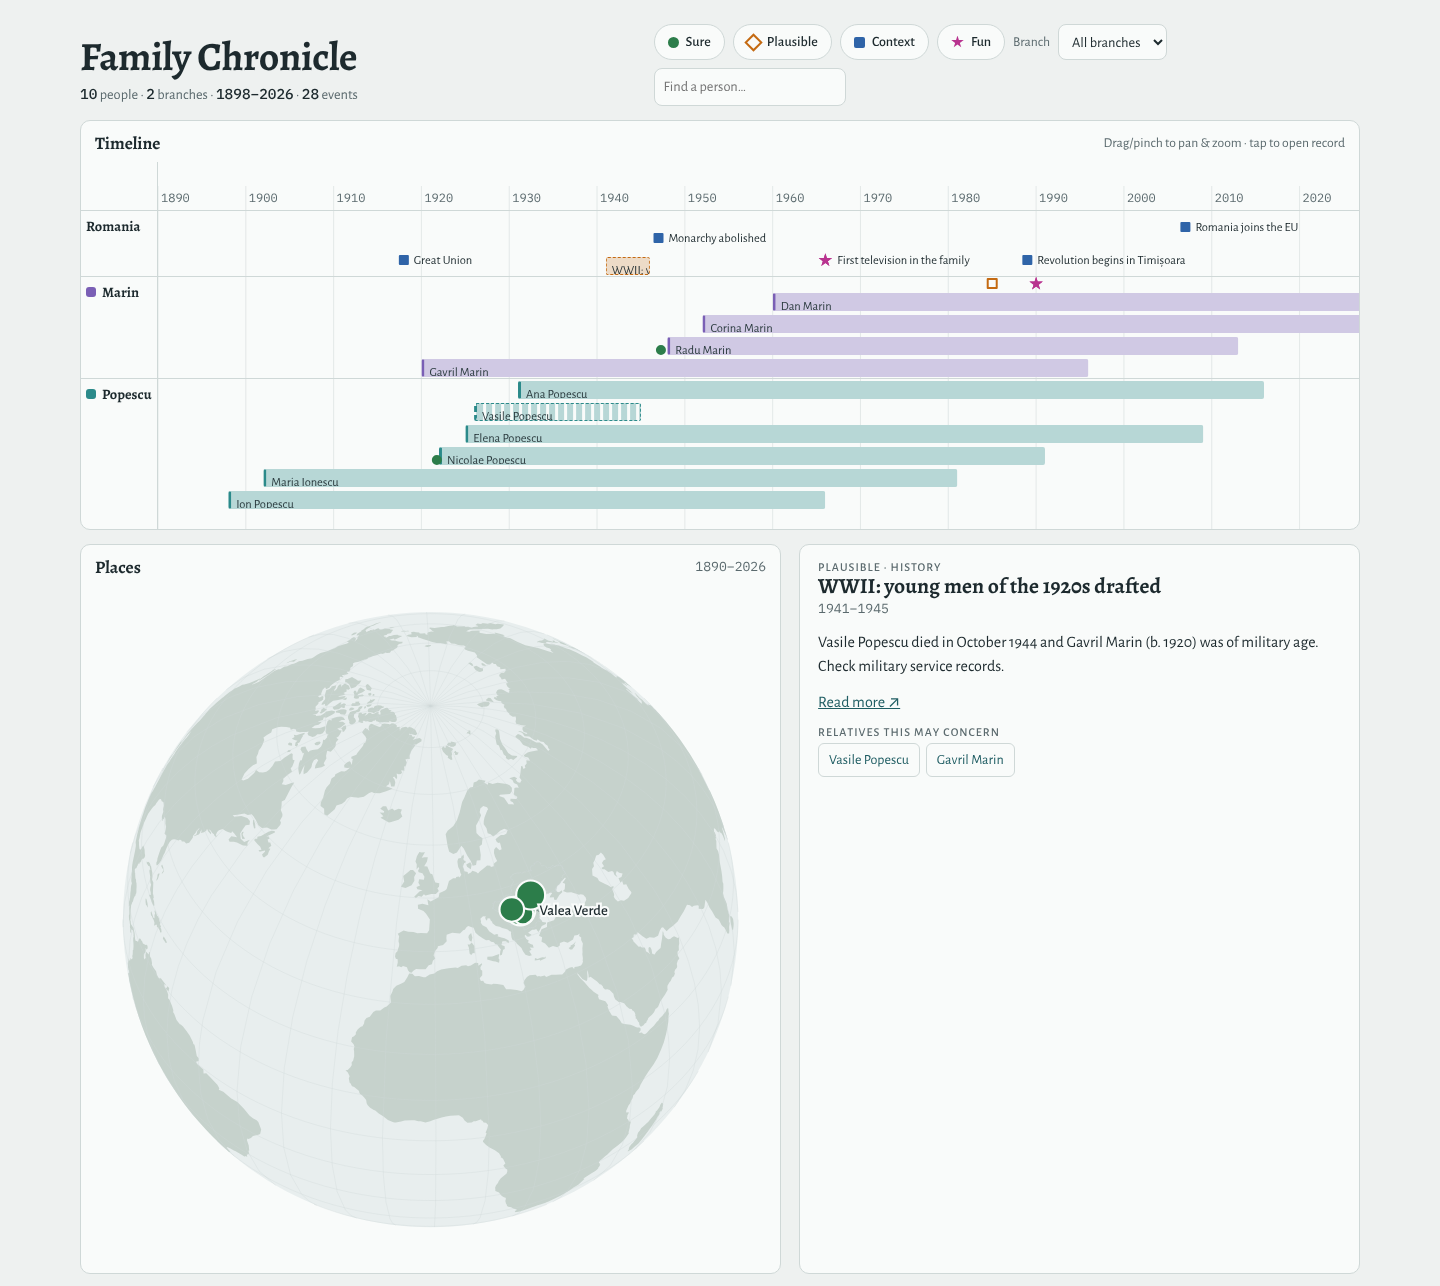
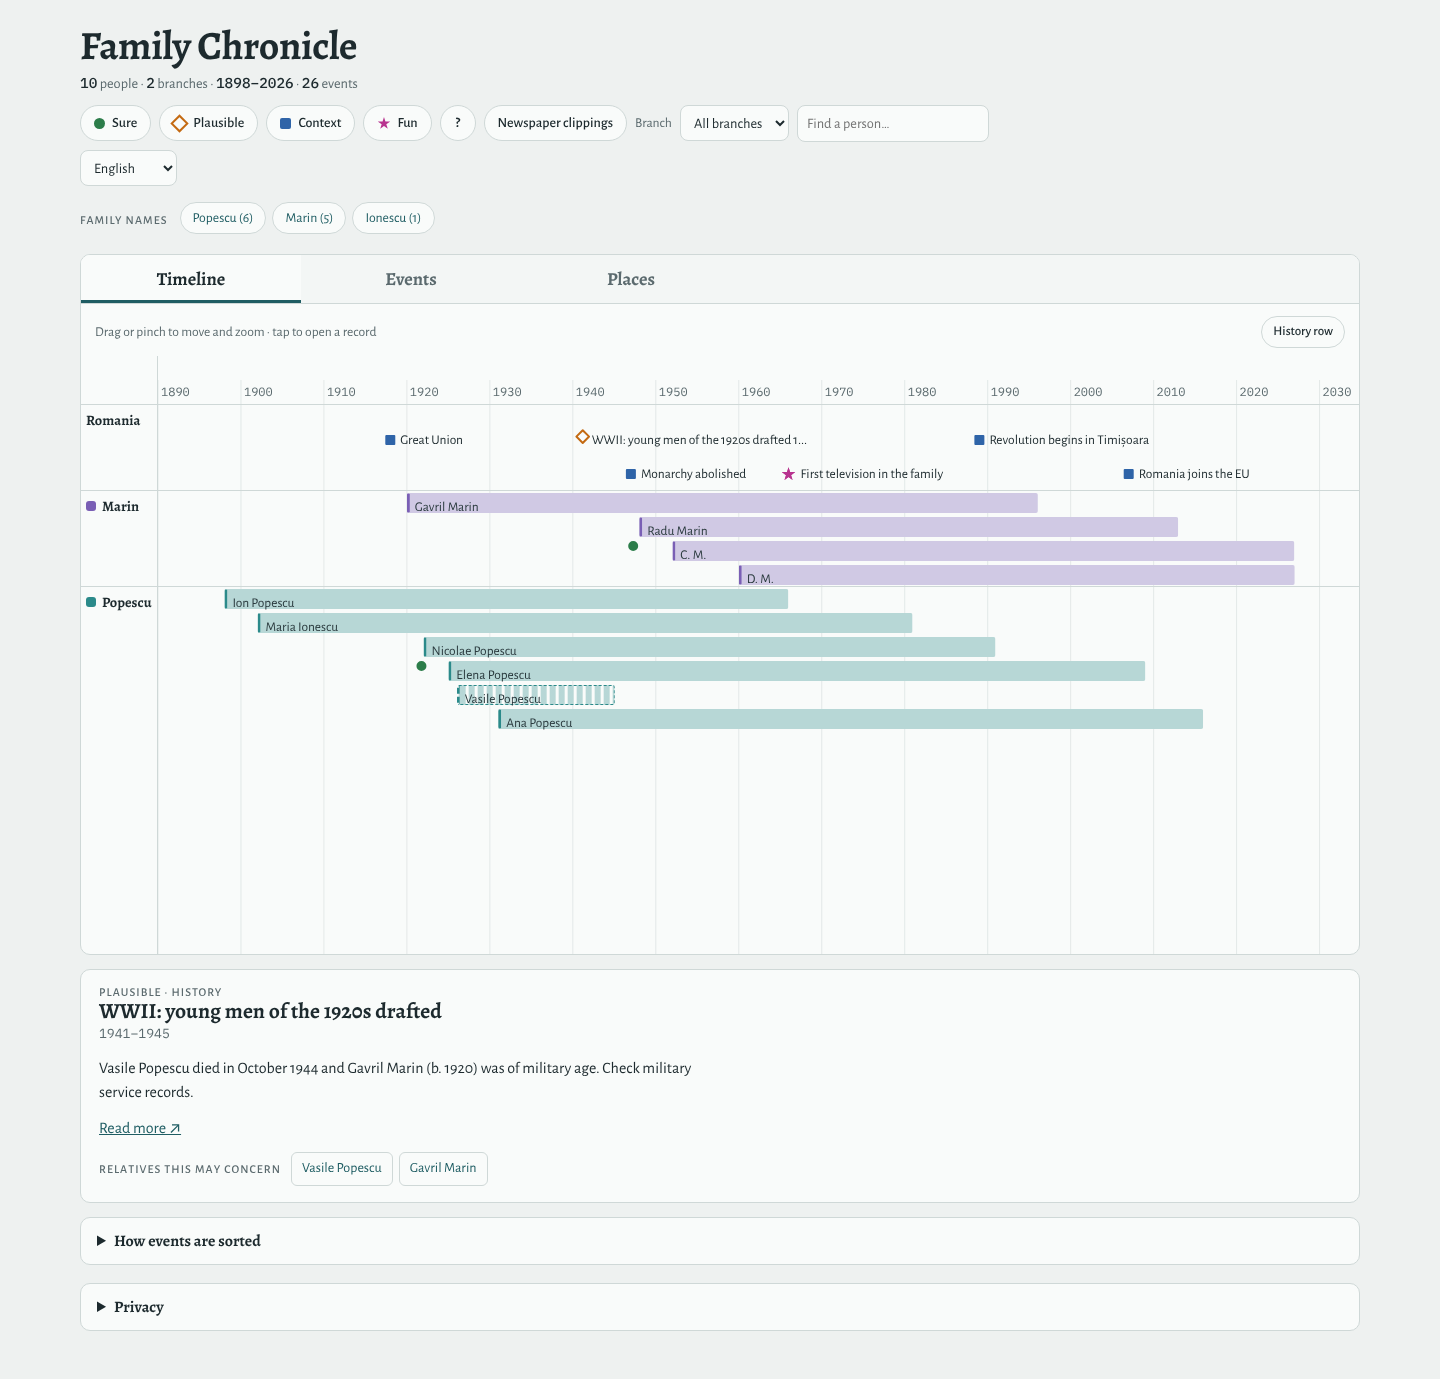
Update README screenshots for the tabbed layout
Retake the Timeline screenshot from the current demo and add Events and
Places tab screenshots, since the map no longer sits beside the timeline.

Claude-Session: https://claude.ai/code/session_01NbKrf1VKwjt6tAJJ18sw9N

diff --git a/README.md b/README.md
@@ -2,9 +2,16 @@
 
 Turns a GEDCOM family tree export into a single HTML page with a zoomable timeline and a linked globe map.
 
-![Family Chronicle showing the fictional demo tree: timeline of two family branches with history events, globe map and an open record card](docs/demo-screenshot.png)
+![Family Chronicle showing the fictional demo tree: Timeline tab with two family branches, the history row and an open record card](docs/demo-screenshot.png)
 
-*The demo tree (`npm run dev:demo`).*
+*The demo tree (`npm run dev:demo`), Timeline tab.*
+
+<p>
+  <img src="docs/demo-events.png" alt="Events tab: sortable list of the demo tree's events with category, people, place, source and link columns" width="49%">
+  <img src="docs/demo-places.png" alt="Places tab: map of Romania with the demo tree's places and migration lines" width="49%">
+</p>
+
+*Events and Places tabs.*
 
 - One timeline row per family branch, plus a history row
 - Lifespans as bars; hatched when a date is estimated
